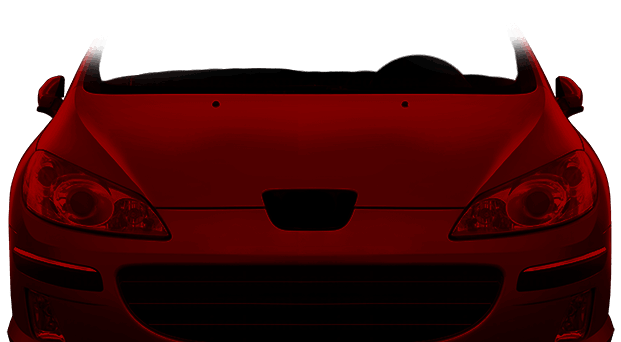
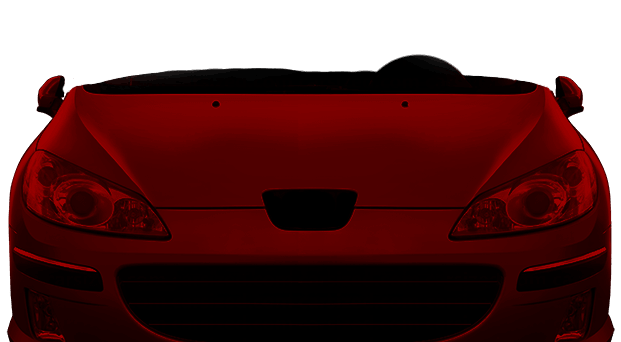
contenido editorial con cita

Changed region(s): [[0.8261, 0.0877, 0.8873, 0.2632], [0.0918, 0.1462, 0.2142, 0.2632], [0.7343, 0.2047, 0.7955, 0.2339]]

diff --git a/src/scss/pages/_especial-1.scss b/src/scss/pages/_especial-1.scss
@@ -51,13 +51,14 @@
 .especial {
   &__hero {
     background-image: linear-gradient(#000000 0%, #210000 50%);
-    min-height: 95vh;
+    min-height: 95dvh;
     display: flex;
     flex-direction: column;
     align-items: center;
     text-align: center;
     position: relative;
     overflow: hidden;
+    margin-bottom: $spacing-lg;
 
     @include desktop {
       flex-direction: row;
@@ -90,7 +91,8 @@
     font-weight: 800;
     line-height: 100%;
     color: $white;
-    max-width: 40ch;
+    display: flex;
+    flex-direction: column;
 
     @include desktop {
       font-size: 8.8rem;
@@ -143,22 +145,70 @@
 
   &__block {
     &--text {
-      max-width: 65rem;
+      max-width: $container-width;
+      width: 100%;
       margin: 0 auto;
-      padding: $spacing-xl $spacing-md;
+      padding: $spacing-md $spacing-md 0;
       font-family: $font-primary;
-    }
-
-    @include desktop {
-      &--text {
-        padding: $spacing-xxl $spacing-md;
-      }
     }
 
     &--image {
       img {
+        max-width: $container-wide;
         width: 100%;
+        margin: 0 auto;
+        padding: $spacing-md $spacing-md 0;
       }
+    }
+  }
+
+  &__cita {
+    max-width: $container-width;
+    padding: $spacing-md $spacing-md;
+    font-family: $font-primary;
+    font-style: italic;
+    font-size: 2.4rem;
+    line-height: 1.4;
+    color: $grey-dark;
+    border-left: 4px solid $color-primary;
+    background-color: $color-primary-bg;
+    border-radius: 0 16px 16px 0;
+
+    cite {
+      display: block;
+      font-style: normal;
+      font-family: $font-secondary;
+      font-size: 1.4rem;
+      font-weight: 700;
+      color: $color-primary;
+      letter-spacing: 0.05em;
+    }
+  }
+
+  &__enlace-original {
+    display: inline-flex;
+    align-items: center;
+    gap: $spacing-xs;
+    font-family: $font-secondary;
+    font-size: 1.4rem;
+    font-weight: 500;
+    color: $color-primary;
+    margin-bottom: $spacing-lg;
+    transition: gap 0.2s ease;
+    background-color: $color-primary-light;
+    padding: $spacing-sm $spacing-lg;
+    border-radius: 50px;
+
+    &:hover {
+      gap: $spacing-sm;
+    }
+
+    svg {
+      transition: transform 0.2s ease;
+    }
+
+    &:hover svg {
+      transform: translate(2px, -2px);
     }
   }
 }
@@ -168,11 +218,16 @@
   display: flex;
   position: relative;
   flex-direction: column;
+  transform: translateY(52%);
+
+  @include mobile-xs {
+    transform: translateY(40%);
+  }
   @include tablet {
-    top: 3rem;
+    transform: translateY(58%);
   }
   @include desktop {
-    top: 3rem;
+    transform: translateY(60%);
   }
 }
 
@@ -180,7 +235,7 @@
   position: relative;
   top: 0;
   display: flex;
-  gap: 3rem;
+  gap: 4rem;
 }
 
 .asientos-delanteros {
@@ -188,16 +243,18 @@
   z-index: 1;
   --bote: -0.1rem;
   animation: bote 8s ease-in-out infinite 0.05s;
+}
 
-  .bloque__sanchez {
-    position: relative;
-    z-index: 2;
-    scale: 0.9;
-  }
+.bloque__sanchez {
+  position: relative;
+  z-index: 2;
+  scale: 0.8;
+  margin-top: 0.8rem;
+}
 
-  .bloque__abalos {
-    padding-top: 1.5rem;
-  }
+.bloque__abalos {
+  margin-top: 1.7rem;
+  scale: 0.9;
 }
 
 .asientos-traseros {
@@ -208,19 +265,21 @@
   scale: 0.7;
   --bote: -0.08rem;
   animation: bote 8s ease-in-out infinite 0.1s;
+}
 
-  .bloque__koldo {
-    position: relative;
-    margin-left: -40%;
-    z-index: 1;
-    scale: 1.1;
-  }
+.bloque__koldo {
+  position: relative;
+  margin-left: -35%;
+  z-index: 1;
+  scale: 1;
+  filter: brightness(0.9);
+}
 
-  .bloque__cerdan {
-    position: relative;
-    z-index: 2;
-    scale: 0.9;
-  }
+.bloque__cerdan {
+  position: relative;
+  z-index: 2;
+  scale: 0.8;
+  filter: brightness(0.9);
 }
 
 .peugeot {

diff --git a/index.html b/index.html
@@ -47,13 +47,34 @@
             </div>
           </div>
           <div class="peugeot">
-            <img src="/images/peugeot.png" alt="Foto de Peugeot 407" />
+            <img src="/images/peugeot3.png" alt="Foto de Peugeot 407" />
           </div>
         </div>
       </section>
 
       <section class="especial__body">
         <div class="especial__block especial__block--text">
+          <a
+            href="https://www.20minutos.es/noticia/5729029/0/la-caida-de-la-banda-del-peugeot-con-la-salida-de-salazar-culmina-el-fin-del-grupo-que-ayudo-a-sanchez-a-llegar-a-la-moncloa/"
+            class="especial__enlace-original"
+            target="_blank"
+            rel="noopener"
+          >
+            Ir a la noticia original
+            <svg
+              xmlns="http://www.w3.org/2000/svg"
+              width="16"
+              height="16"
+              viewBox="0 0 24 24"
+              fill="none"
+              stroke="currentColor"
+              stroke-width="2"
+              stroke-linecap="round"
+              stroke-linejoin="round"
+            >
+              <path d="M7 17l9.2-9.2M17 17V7H7" />
+            </svg>
+          </a>
           <p>
             Hasta seis miembros de la Ejecutiva Federal del PSOE, algunos muy
             próximos al exsecretario de Organización, Santos Cerdán, en prisión
@@ -69,9 +90,15 @@
             Salazar culmina el fin de la llamada 'banda del Peugeot', el grupo
             que ayudó a Sánchez a llegar a la Moncloa. Así les llama el Partido
             Popular, que los retrató en un video con Inteligencia Artificial o
-            el alcalde de Madrid, José Luis Martínez-Almeida, que declaró que
-            "nos gobierna la banda del Peugeot".
+            el alcalde de Madrid.
           </p>
+        </div>
+
+        <div class="especial__block especial__block--text">
+          <blockquote class="especial__cita">
+            <p>"Nos gobierna la banda del Peugeot"</p>
+            <cite>José Luis Martínez-Almeida</cite>
+          </blockquote>
         </div>
 
         <div class="especial__block especial__block--image">
@@ -79,7 +106,22 @@
         </div>
 
         <div class="especial__block especial__block--text">
-          <p>La expresión, esa marca de coche...</p>
+          <p>
+            La expresión, esa marca de coche, hace referencia a la campaña que
+            hizo Sánchez para ser elegido secretario general del PSOE en 2017,
+            recorriendo el país en un Peugeot 407. En aquel entonces, tuvo el
+            apoyo de secretario de organización del PSOE, José Luis Ábalos; su
+            exasesor cuando fue ministro de Transportes, Koldo García; el ex
+            secretario de Organización de los socialistas, Santos Cerdán; y el
+            mencionado Salazar.
+          </p>
+          <p>
+            Todos ellos han caído "cual soldados fulminados al suelo y ahora
+            están atrapados en la misma prisión", cantaba en los 80 Radio
+            Futura. Con la caída de Salazar culmina el fin de la 'banda del
+            Peugeot', el grupo de aquellos que estuvieron con Sánchez desde
+            2017.
+          </p>
         </div>
 
         <div class="especial__block especial__block--image">

diff --git a/src/scss/_mixins.scss b/src/scss/_mixins.scss
@@ -3,6 +3,13 @@
 // ================================
 // RESPONSIVE (Mobile First)
 // ================================
+
+@mixin mobile-xs {
+  @media (max-width: $bp-mobile-xs) {
+    @content;
+  }
+}
+
 @mixin tablet {
   @media (min-width: $bp-tablet) {
     @content;

diff --git a/src/scss/_variables.scss b/src/scss/_variables.scss
@@ -42,6 +42,7 @@ $color-accent-red: #bb0000;
 // ================================
 // BREAKPOINTS (Mobile First)
 // ================================
+$bp-mobile-xs: 340px;
 $bp-tablet: 768px;
 $bp-desktop: 1024px;
 $bp-wide: 1280px;
